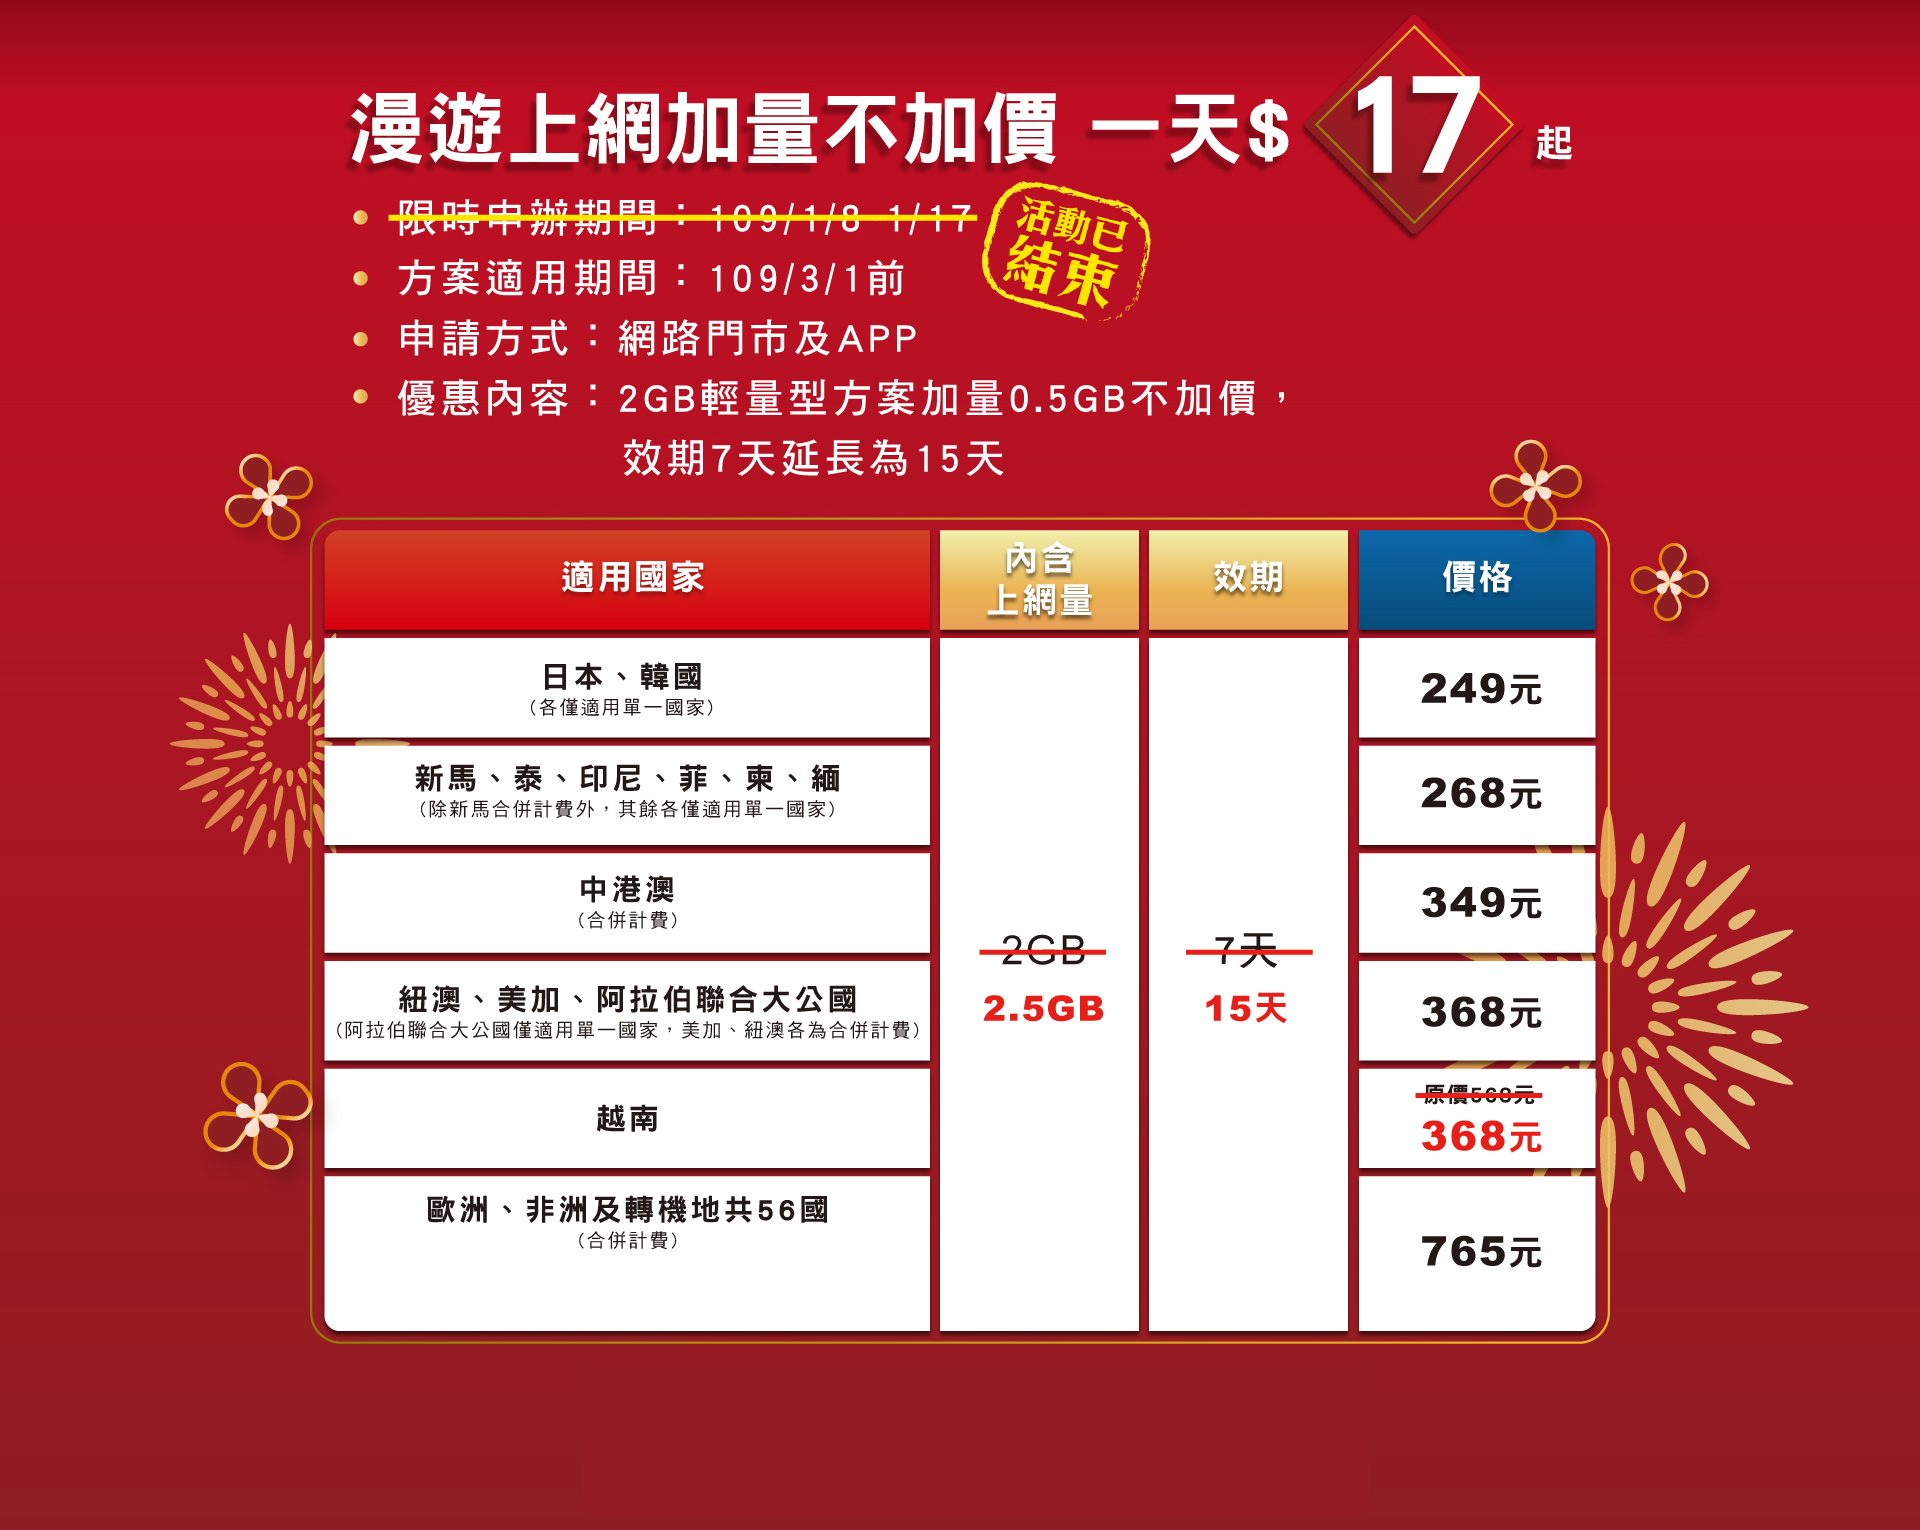
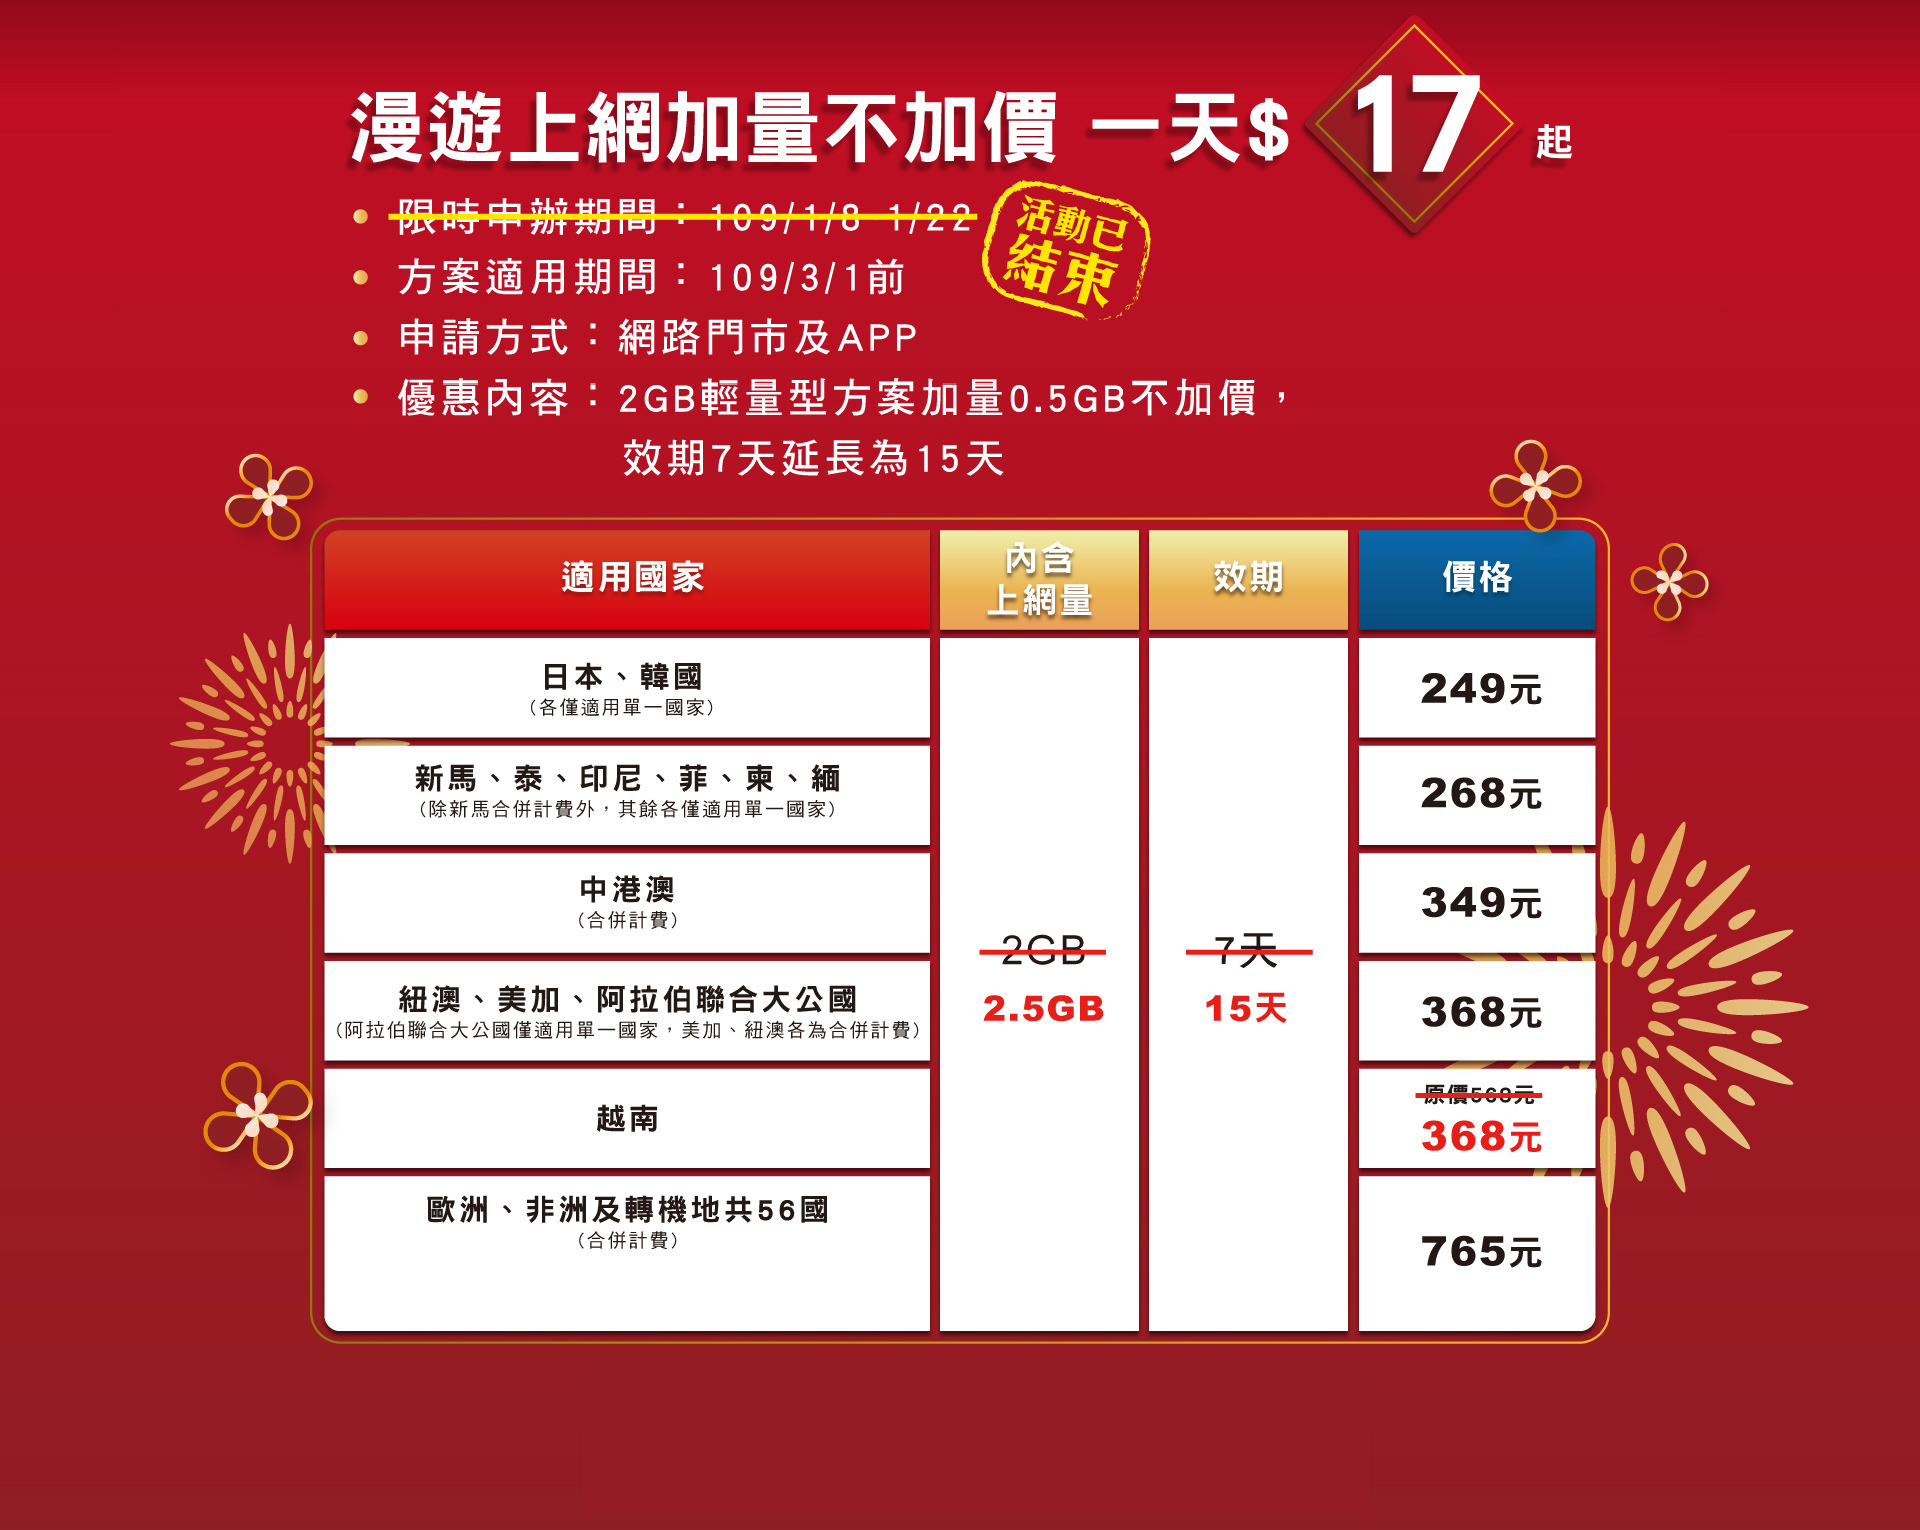
國際漫遊
調整主視覺
修改保文日期
修改日期圖片

diff --git a/demo/international/roaming/holidaygo.html b/demo/international/roaming/holidaygo.html
@@ -712,7 +712,7 @@
 		</div>
 		<div class="reminder">
 			<ol>
-				<li>本活動期間為109/01/08 00:00~01/17
+				<li>本活動期間為109/01/08 00:00~01/22
 					23:59，僅限於中華電信網路門市或中華APP申請及加購，可預約109/03/01（含）以前生效方案。活動期間結束後，已申請成功（含立即生效及預約生效）之方案，無法調改生效時間或適用國家。</li>
 				<li>
 					本活動方案生效後只要有產生上網用量即收取方案全額費用，無法退費(方案生效期間沒使用則不收錢)。方案於內含上網量使用完畢後結束，使用量達70%時可加購下一相同適用國家之「新春快閃2GB輕量型」方案，加購方案將於原方案結束後自動生效，並重新計算效期。如上網量未使用完，則方案將於到期後終止，未用完之上網量將歸零不得遞延。(申請一般1GB/2GB輕量型或網頁及APP限定1GB/2GB輕量型之客戶，無法加購「新春快閃2GB輕量型」方案，僅能於活動期間申請。)
